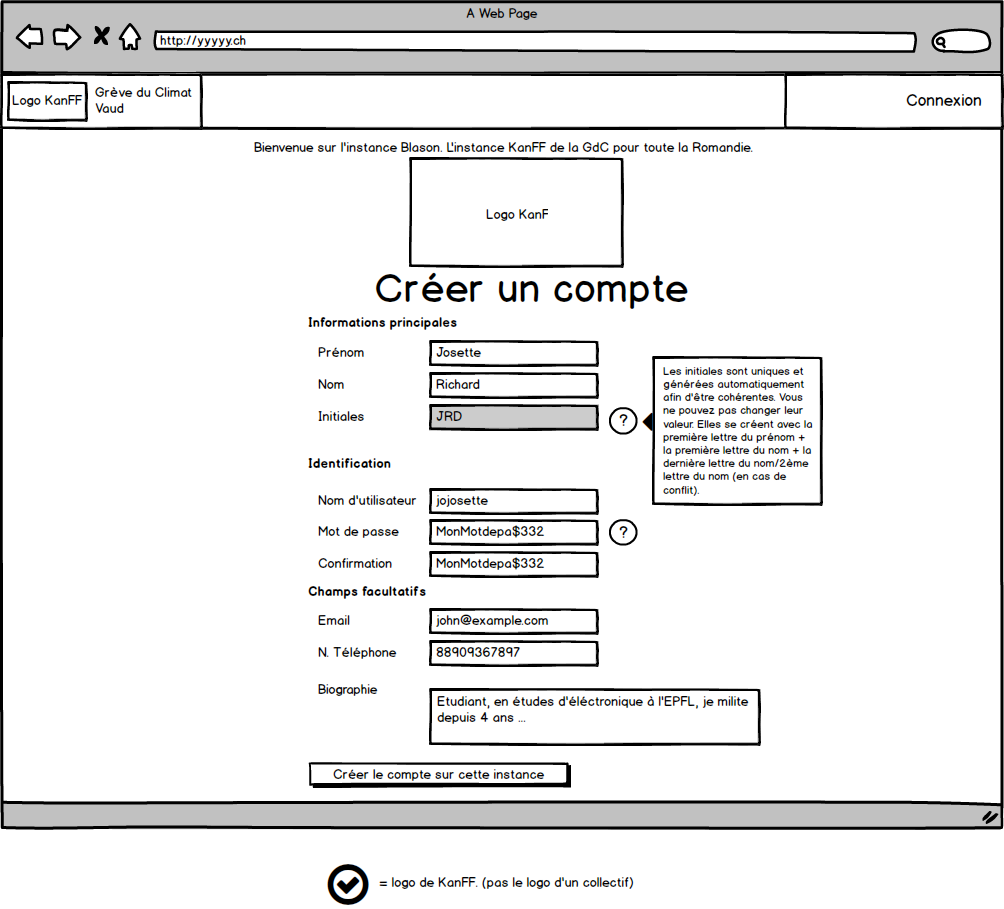
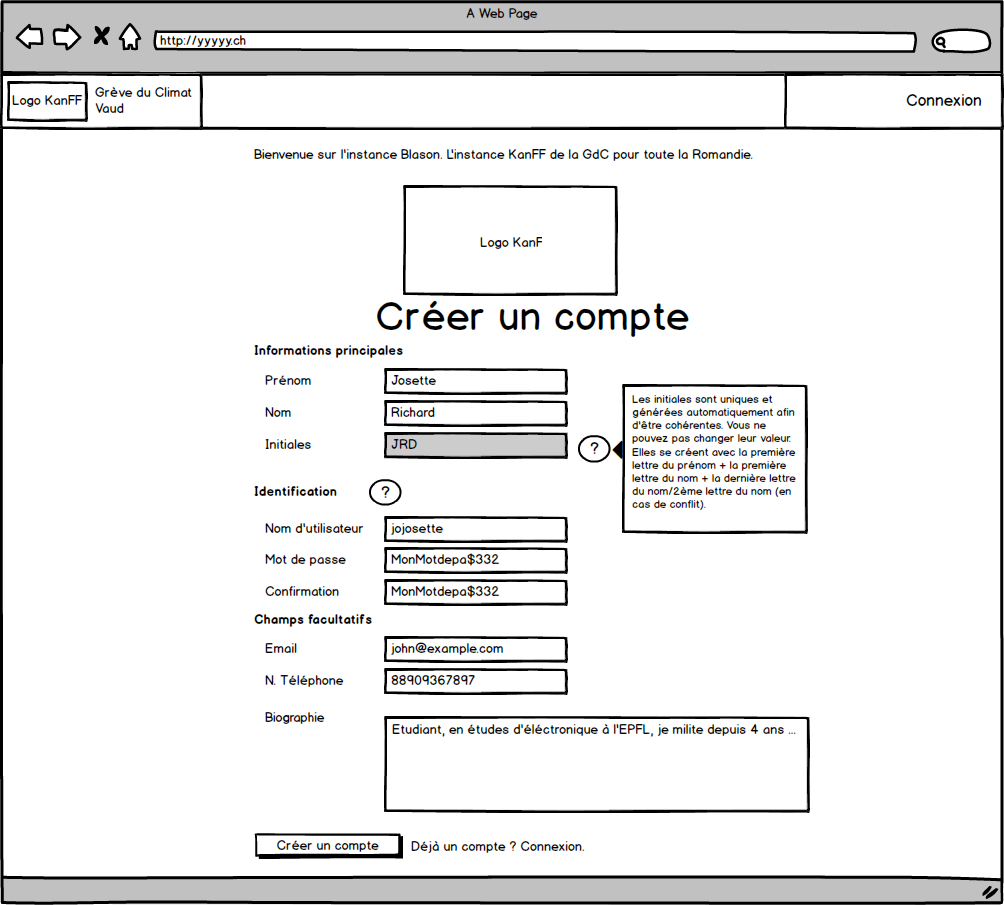
Login fix design and maquettes updated Login and Create an account

diff --git a/app/css/styles.css b/app/css/styles.css
@@ -60,6 +60,7 @@ background-color: #333333;
     color: #D9DBE5;
 }
 
+/*
 .formlog {
     min-width: 500px;
     position: absolute;
@@ -75,6 +76,7 @@ background-color: #333333;
         min-width: 90%;
     }
 }
+*/
 
 ul {
     list-style-type: none;

diff --git a/app/view/login.php b/app/view/login.php
@@ -6,25 +6,24 @@ ob_start();
 
     <form class="formlog" action="index.php?action=login" method="post">
         <div>
-            <a>Bienvenue sur l'instance Blason. L'instance KanFF de Assoc pour toute la Romandie.</a>
-            <div class="left"><img src="view/medias/logos/temp-logo.png" alt="logoLog" class="logoLog"> <br><span class="versiontext"></span>
+            <p class="aligncenter">Bienvenue sur l'instance Blason, l'instance KanFF de la GdC pour toute la Romandie.</p>
+            <div class="box-aligncenter"><img src="view/medias/logos/temp-logo.png" alt="logoLog" class="logoLog"> <br><span class="versiontext"></span>
                 <span class="versiontext"></span></div>
         </div>
-        <h1>Connexion</h1>
-        <div class="form-group" style="text-align: left">
-            <label  for="infoLogin">Nom d'utilisateur, Email ou Initials</label>
-            <input type="text"  class="form-control" name="infoLogin" id="infoLogin" aria-describedby="emailHelp" placeholder="nom d'utilisateur ou email" required="required">
+        <h1 class="aligncenter">Connexion</h1>
+        <div class="form-group">
+            <label  for="infoLogin">Nom d'utilisateur, initiales ou email</label>
+            <input type="text" width="auto" class="form-control" name="infoLogin" id="infoLogin" autofocus aria-describedby="emailHelp" placeholder="josette27 ou JRD/jrd ou josette.richard@assoc.ch" minlength="3" required>
         </div>
-        <div class="form-group" style="text-align: left">
+        <div class="form-group">
             <label for="password">Mot de passe</label>
-           <input type="password" class="form-control" name="password" id="password" placeholder="Password" required="required">
+           <input type="password" class="form-control" name="password" id="password" placeholder="" required>
         </div>
         <div>
-            <div class="vertical-center" >
-        <button type="submit" class="btn btn-primary btn-block button1 ">Login</button>
+            <div class="vertical-center box-alignright">
+        <button type="submit" class="btn btn-primary">Se connecter</button>
             </div>
-        <p>Pas encore de compte sur cette instance Blason? <a href="/?action=signin">Créer un compte</a></p>
-
+            <br><p>Pas encore de compte sur cette instance ? <a href="/?action=signin">Créer un compte.</a></p>
         </div>
         <?php if (isset($_SESSION['error'])) {
             if ($_SESSION['error'] == 1)

diff --git a/app/controler/loginControler.php b/app/controler/loginControler.php
@@ -53,6 +53,9 @@ function login($infoLogin, $password)
     // TODO: Code the Login function
     // If trying to login it checks the data, else load the page
     if ($infoLogin != "") {
+        if (strlen($infoLogin) == 3) {//If the infoLogin is initials, then convert it to upper case
+            $infoLogin = strtoupper($infoLogin);
+        }
         $UserLog = getUser($infoLogin);
         if (password_verify($password, $UserLog['password'])) {
             unset($UserLog['password']);    //unset password to not save it in the session
